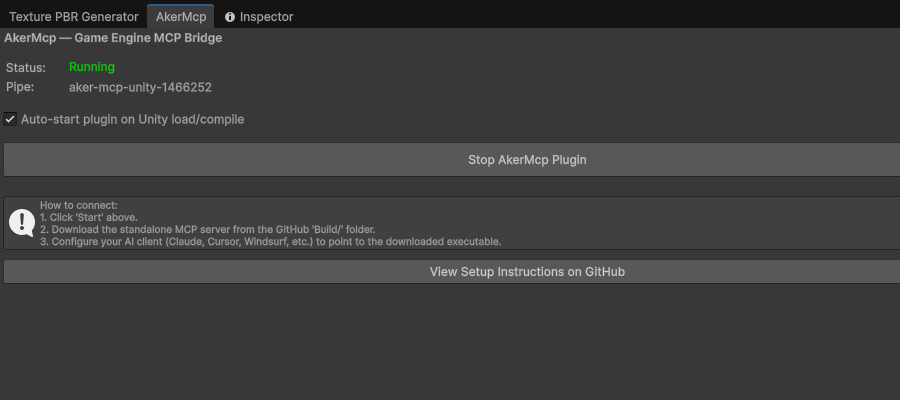
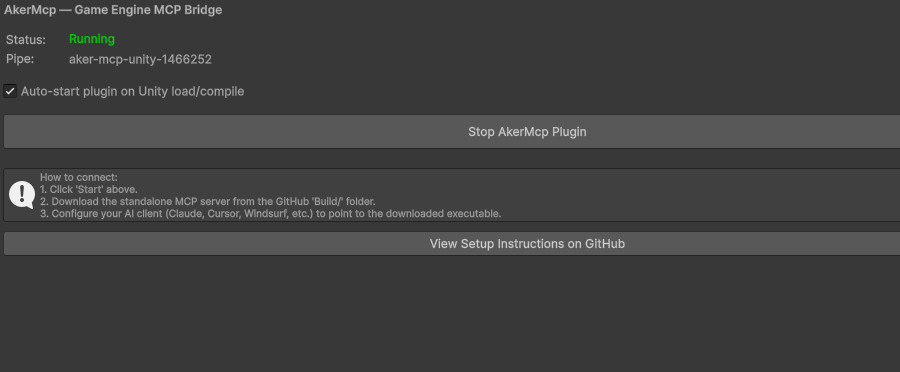
docs: examples and notes name no private project; the editor window shot shows only the panel

diff --git a/tools/AkerMcp.UiProbe/Program.cs b/tools/AkerMcp.UiProbe/Program.cs
@@ -20,8 +20,8 @@ namespace AkerMcp.UiProbe
     ///
     /// Run it against any window — the editor, a text editor, anything with a title:
     ///
-    ///   dotnet run --project tools/AkerMcp.UiProbe -- coords "SkelForge"
-    ///   dotnet run --project tools/AkerMcp.UiProbe -- shot   "SkelForge" out.jpg
+    ///   dotnet run --project tools/AkerMcp.UiProbe -- coords "Unity"
+    ///   dotnet run --project tools/AkerMcp.UiProbe -- shot   "Unity" out.jpg
     ///   dotnet run --project tools/AkerMcp.UiProbe -- run    calls.json
     /// </summary>
     public static class Program

diff --git a/README.md b/README.md
@@ -445,7 +445,6 @@ So: `add_primitive` for the piece every 2D prototype needs and nobody wants rewr
 > - **Unity**, full: Play Mode runs in the Game View, so `take_screenshot`/`capture_sequence` capture the live game; pause/step supported. Reuses the domain-reload reconnect from `refresh_scripts`.
 > - **Godot**, partial: the game runs in a **separate window** (screenshot it with `capture_window`, drive it with `send_input`'s OS-level path + `window_title`); no editor-side pause/step.
 > - **Stride**: Game Studio has no plugin-controllable Play Mode; `enter_play` reports this and points you to `build_player` + running the produced executable.
-> - **SkelForge**, full: "play" plays the animation timeline in-editor; pause + frame-step supported; the viewport shows the pose.
 >
 > `send_input` prefers an engine's in-process `IInputSimulator`, otherwise focuses the game/engine window and injects via **OS-level injection** (Windows `SendInput`, macOS Quartz `CGEvent`; Linux reports unsupported). On **Unity** the in-process path drives the **new Input System** (`com.unity.inputsystem`) directly, resolved via reflection, so there is no hard package dependency; projects on the legacy Input Manager (or without the package) fall back to OS-level automatically. On **Godot/Stride** the game is a separate window, so pass `window_title` (the game window's title) or the OS-level path targets the editor. An explicit `window_title` always takes the OS-level path: the in-process path can reach no window but the engine's own game view, and on Unity it used to swallow a click meant for an editor window and report success. The `action` event type is reserved but not yet injectable; drive the key/mouse controls the action is bound to.
 

diff --git a/todo.md b/todo.md
@@ -54,7 +54,7 @@ not run inside an editor. First smoke test on each, in order of risk:
 
 - [ ] **Unity: the DLLs moved to `Editor/Plugins`.** An existing install must have its old
       `Plugins` folder moved, metas included — copied alongside, Unity sees every assembly twice.
-      That includes the hand-made copy in WaveFunctionCollapse. `copy-dlls` migrates the sample.
+      That includes a copy of the plugin placed in a project by hand; `copy-dlls` migrates the sample.
 - [ ] **Unity: execute's reference and snippet caches**, `#line` numbers, bare expressions; the
       scene manager refusing a save without a path and an open over unsaved changes.
 - [ ] **Godot: undo** for create, delete and placed sprites/sounds; `save_scene` through the
@@ -64,7 +64,7 @@ not run inside an editor. First smoke test on each, in order of risk:
       all. The new one reads it from `.godot/mono/temp/bin`; whether 4.4 loads the same way is
       unverified.
 - [ ] **Stride: a Launcher install.** Its assemblies live one per NuGet package, so the installer
-      now gathers them; only a fake layout built from the fork's 4.4 packages was tried.
+      now gathers them; only a fake layout built from a local Stride 4.4 build's packages was tried.
 - [ ] **Stride: placed sprites** are real entities now, referencing the sheet through
       `AttachedReferenceManager.CreateProxyObject`.
 

diff --git a/tools/README.md b/tools/README.md
@@ -38,8 +38,8 @@ The second thing a unit test will not tell you: a dropdown is a window of its ow
 window capture renders the interface with its menus missing. `shot` is for looking.
 
 ```
-dotnet run --project tools/AkerMcp.UiProbe -- coords "SkelForge"
-dotnet run --project tools/AkerMcp.UiProbe -- shot   "SkelForge" out.jpg
+dotnet run --project tools/AkerMcp.UiProbe -- coords "Unity"
+dotnet run --project tools/AkerMcp.UiProbe -- shot   "Unity" out.jpg
 dotnet run --project tools/AkerMcp.UiProbe -- run    calls.json
 ```
 
@@ -62,7 +62,7 @@ Images land next to the file as `run-1.jpg`, `run-2.jpg`, …
 
 ```json
 [
-  {"name": "ui_action", "arguments": {"action": "screenshot", "window_title": "SkelForge"}},
+  {"name": "ui_action", "arguments": {"action": "screenshot", "window_title": "Unity"}},
   {"name": "ui_action", "arguments": {"steps": [
       {"action": "left_click", "x": 135, "y": 171},
       {"action": "type", "text": "player"}
